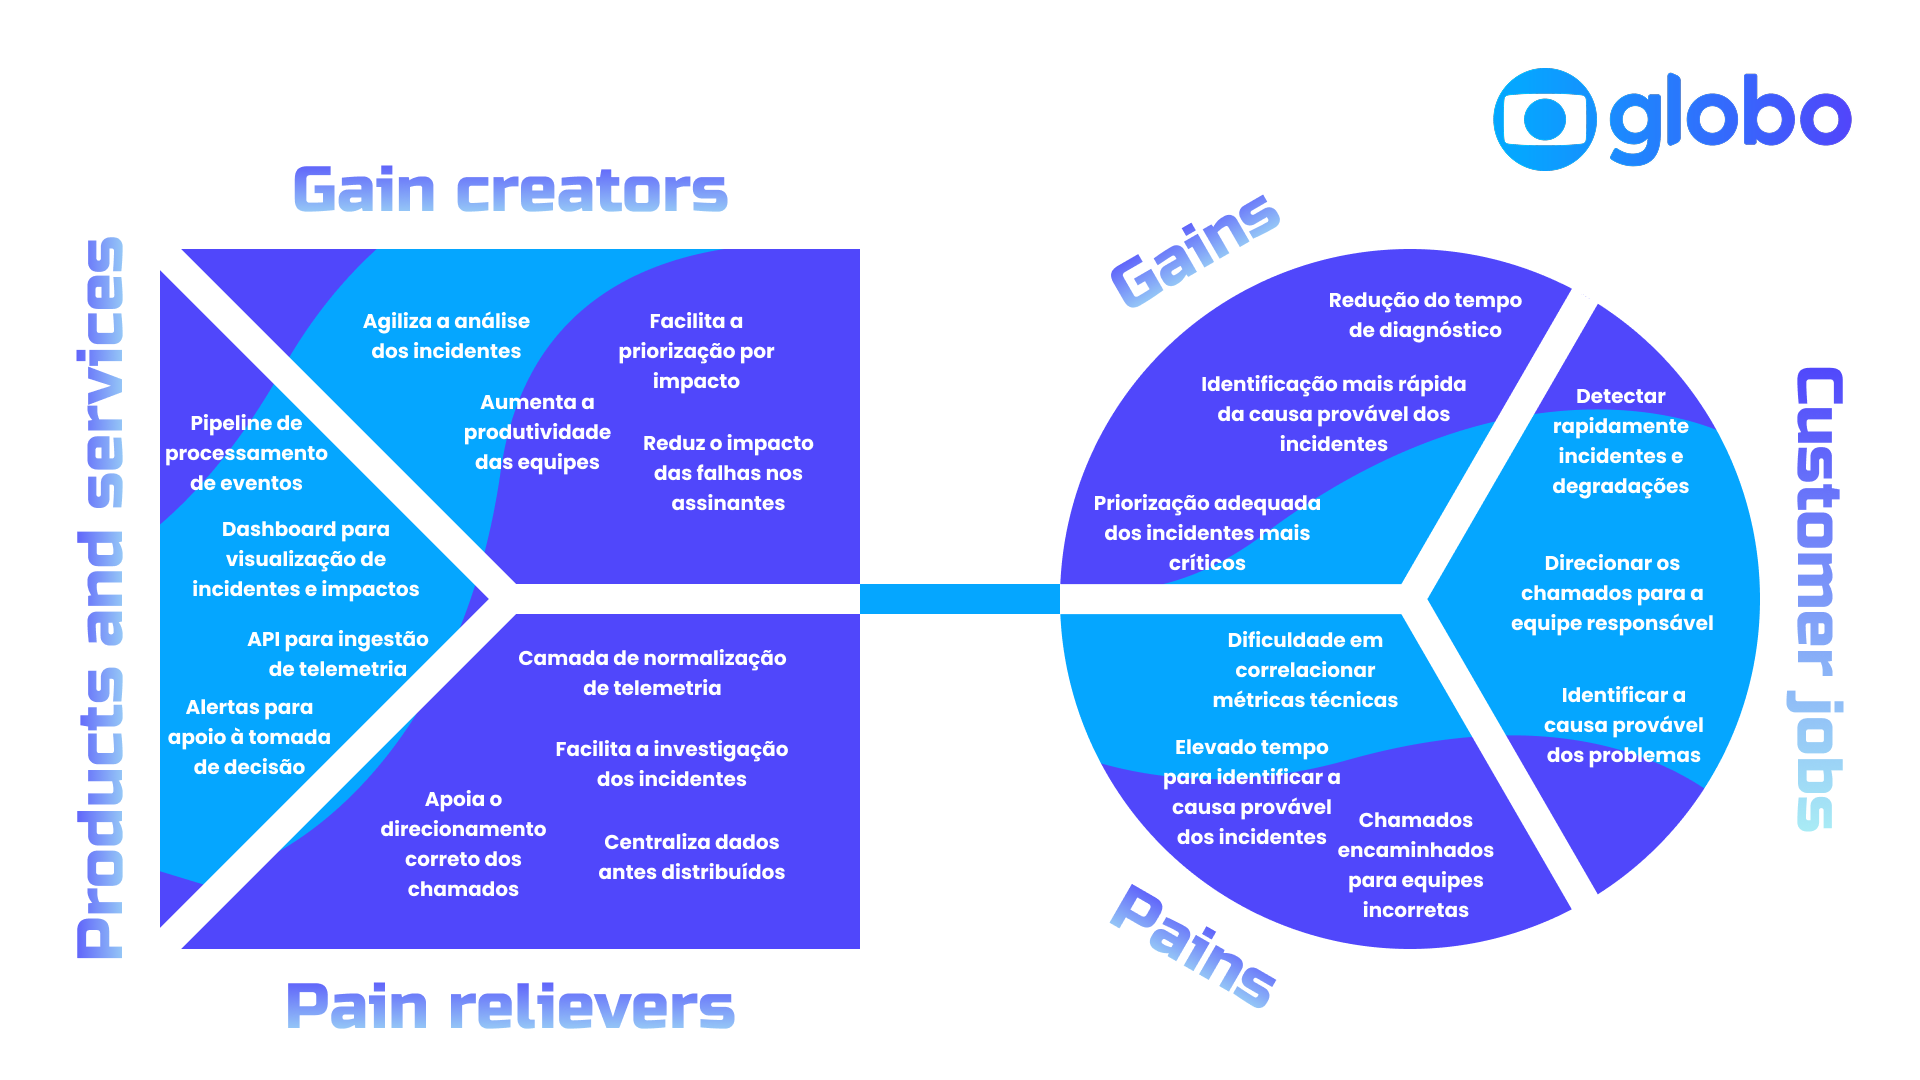
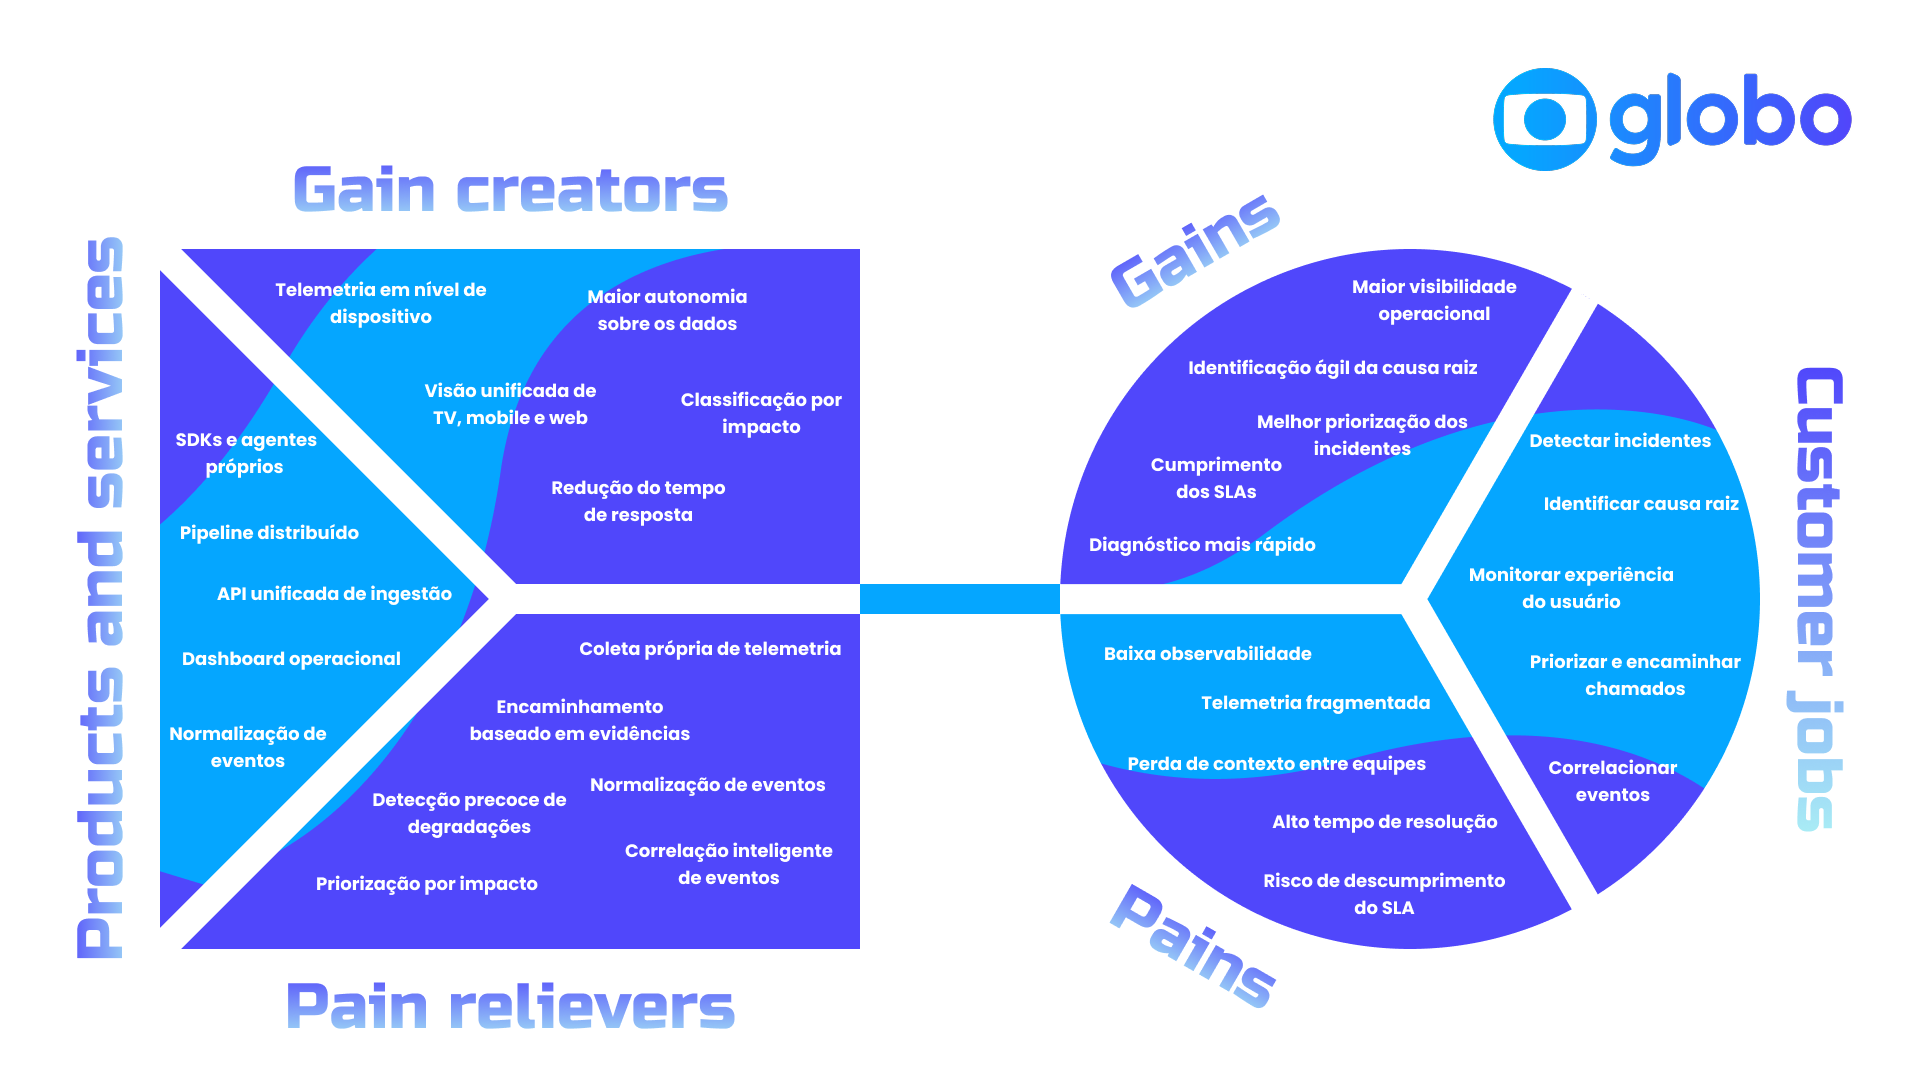
docs: atualiza conteúdo e estrutura do Canvas da Proposta de Valor

diff --git a/artefatos/entendimento_negocio.md b/artefatos/entendimento_negocio.md
@@ -12,7 +12,7 @@
 
 ### 3.1. Value Proposition Canvas
 
-&nbsp; O Canvas da Proposta de Valor é uma ferramenta estratégica que permite compreender de forma visual e objetiva a relação entre o que uma organização oferece e as necessidades de seu público-alvo. Ele é dividido em dois lados complementares: o Perfil do Cliente, que identifica as tarefas, dores e ganhos esperados, e o Mapa de Valor, que apresenta como os produtos e serviços propostos aliviam essas dores e criam benefícios. Neste projeto, a ferramenta é utilizada para relacionar a solução de observabilidade aos desafios enfrentados pelo time de tecnologia da Globo durante o monitoramento e a resolução de incidentes do Globoplay.
+&nbsp; O Canvas da Proposta de Valor é uma ferramenta estratégica que permite compreender de forma visual e objetiva a relação entre o que uma organização oferece e as necessidades de seu público-alvo. Ele é dividido em dois lados complementares: o Perfil do Cliente, que identifica as tarefas, dores e ganhos esperados, e o Mapa de Valor, que apresenta como os produtos e serviços propostos aliviam essas dores e criam benefícios. Neste projeto, a ferramenta é utilizada para relacionar uma solução própria de coleta e análise de telemetria aos desafios enfrentados pelo time de tecnologia da Globo durante o monitoramento e a resolução de incidentes do Globoplay.
 
 <div align="center">
 
@@ -30,34 +30,39 @@
 
 &nbsp; Esta seção detalha os produtos e serviços que compõem a proposta de valor entregue ao cliente.
 
-- **1 -** API para ingestão de dados de telemetria.
-- **2 -** Pipeline escalável, executado na AWS, para processamento de eventos.
-- **3 -** Camada de normalização de diferentes formatos de telemetria.
-- **4 -** Armazenamento centralizado das informações processadas.
-- **5 -** Dashboard para visualização de incidentes e de seus impactos.
-- **6 -** Alertas para apoio à tomada de decisão das equipes técnicas.
+- **1 -** SDKs e agentes próprios para coleta de telemetria em dispositivos de TV, mobile e web.
+- **2 -** API para receber diretamente os eventos enviados pelos dispositivos.
+- **3 -** Pipeline escalável, executado na AWS, para processamento dos eventos coletados.
+- **4 -** Camada de normalização dos eventos coletados diretamente dos dispositivos, convertendo protocolos modernos e legados para um formato unificado.
+- **5 -** Armazenamento centralizado das informações processadas.
+- **6 -** Dashboard para visualização de incidentes, impactos e alertas operacionais.
+- **7 -** Mecanismo para identificação de incidentes e degradações a partir dos eventos coletados.
 
 ###### Criadores de Ganhos (*Gain Creators*)
 
 &nbsp; Esta seção detalha os elementos da solução que atuam como criadores de ganhos para o cliente, fortalecendo a proposta de valor.
 
-- **1 -** Acesso mais rápido a informações consolidadas sobre os incidentes.
-- **2 -** Priorização dos incidentes conforme o impacto identificado.
-- **3 -** Maior produtividade das equipes durante a investigação.
-- **4 -** Melhor suporte à tomada de decisão operacional.
-- **5 -** Maior capacidade de cumprimento dos acordos de nível de serviço (SLA).
-- **6 -** Redução do impacto das falhas percebidas pelos assinantes.
+- **1 -** A consolidação das informações no dashboard reduz o tempo de análise e diagnóstico.
+- **2 -** A integração dos dados de TV, mobile e web proporciona uma visão mais ampla da experiência dos assinantes.
+- **3 -** A classificação pelo alcance e impacto facilita a priorização dos incidentes mais críticos.
+- **4 -** A coleta própria elimina parte das limitações impostas pelas ferramentas de mercado e amplia o controle da Globo sobre a evolução da plataforma.
+- **5 -** A disponibilidade de telemetria em nível de dispositivo facilita a identificação da causa provável dos incidentes.
+- **6 -** O direcionamento mais preciso dos chamados reduz retrabalho e aumenta a produtividade.
+- **7 -** A detecção e a investigação mais rápidas apoiam o cumprimento dos acordos de nível de serviço (SLA).
+- **8 -** A redução do tempo de resposta contribui para diminuir a duração e o impacto das falhas percebidas pelos assinantes.
 
 ###### Aliviadores de Dores (*Pain Relievers*)
 
 &nbsp; Esta seção apresenta os elementos da solução que atuam como aliviadores das dores identificadas no perfil do cliente.
 
-- **1 -** Centralização de dados anteriormente distribuídos entre diferentes fontes.
-- **2 -** Padronização dos diferentes formatos de telemetria recebidos.
-- **3 -** Reunião de métricas, eventos e informações de impacto para facilitar a investigação.
-- **4 -** Ampliação da visibilidade sobre o incidente e os grupos afetados.
-- **5 -** Apoio ao direcionamento dos chamados para a equipe responsável.
-- **6 -** Processamento escalável do volume de eventos por meio da infraestrutura da AWS.
+- **1 -** A coleta própria permite monitorar dispositivos que não são plenamente suportados pelas soluções de mercado, reduzindo a dependência dessas ferramentas no escopo coberto pelo projeto.
+- **2 -** A normalização converte eventos de diferentes plataformas para um formato comum, reduzindo a fragmentação.
+- **3 -** O armazenamento e o dashboard centralizam informações anteriormente distribuídas.
+- **4 -** A análise contínua da telemetria permite identificar degradações mesmo quando não há erros explícitos registrados.
+- **5 -** A correlação entre eventos, dispositivos, plataformas e sessões reduz o tempo necessário para encontrar a causa provável do incidente.
+- **6 -** A visualização do alcance e do impacto ajuda a evitar a priorização inadequada dos incidentes.
+- **7 -** As informações consolidadas apoiam o encaminhamento do chamado para a equipe responsável.
+- **8 -** O processamento escalável permite lidar com o volume de eventos sem comprometer a análise operacional.
 
 ---
 
@@ -69,37 +74,48 @@
 
 &nbsp; Esta seção descreve as principais responsabilidades, objetivos e desafios enfrentados pelo cliente, que orientam o desenvolvimento da solução.
 
-- **1 -** Monitorar continuamente a saúde dos sistemas do Globoplay.
-- **2 -** Detectar incidentes e degradações na experiência dos assinantes.
-- **3 -** Analisar informações provenientes de diferentes fontes de observabilidade.
-- **4 -** Investigar as possíveis causas dos incidentes.
-- **5 -** Priorizar os incidentes conforme o impacto nos usuários.
-- **6 -** Direcionar os chamados para a equipe responsável.
-- **7 -** Reduzir o tempo de resolução e cumprir os SLAs estabelecidos.
+- **1 -** Monitorar continuamente a experiência do Globoplay em TV, mobile e web. 
+- **2 -** Detectar incidentes e degradações, inclusive quando não há erros explícitos. 
+- **3 -** Correlacionar eventos e métricas técnicas provenientes de diferentes dispositivos e plataformas. 
+- **4 -** Identificar evidências que apoiem a investigação da causa provável dos incidentes. 
+- **5 -** Mensurar o alcance e o impacto dos incidentes sobre os assinantes. 
+- **6 -** Priorizar incidentes conforme sua criticidade e impacto. 
+- **7 -** Encaminhar os chamados para a equipe responsável e acompanhar sua resolução. 
+- **8 -** Cumprir os SLAs e demonstrar eficiência operacional para outras áreas da Globo. 
+- **9 -** Tomar decisões com segurança, mesmo sob pressão durante incidentes críticos.
 
 ###### Ganhos Desejados (*Gains*)
 
 &nbsp; Esta seção apresenta os ganhos esperados pelo cliente com a adoção da solução.
 
-- **1 -** Redução do tempo necessário para analisar e diagnosticar incidentes.
-- **2 -** Visualização integrada das informações de observabilidade.
-- **3 -** Priorização adequada dos incidentes mais críticos.
-- **4 -** Maior eficiência operacional das equipes técnicas.
-- **5 -** Maior cumprimento dos SLAs de atendimento.
-- **6 -** Redução do impacto das falhas na experiência dos assinantes.
+- **1 -** Reduzir o tempo necessário para detectar, analisar e diagnosticar incidentes.
+- **2 -** Obter visibilidade sobre dispositivos anteriormente pouco observáveis.
+- **3 -** Identificar mais rapidamente evidências relacionadas à causa provável dos incidentes.
+- **4 -** Conhecer o alcance e o impacto de cada incidente sobre os assinantes.
+- **5 -** Priorizar adequadamente os incidentes mais críticos.
+- **6 -** Reduzir o tempo gasto na identificação da equipe responsável pelo incidente, acelerando todo o fluxo de resolução.
+- **7 -** Aumentar a autonomia e o controle da Globo sobre seus dados de telemetria.
+- **8 -** Reduzir a dependência tecnológica de soluções externas para observabilidade.
+- **9 -** Reduzir retrabalho e aumentar a produtividade das equipes técnicas.
+- **10 -** Apoiar o cumprimento dos SLAs e aumentar a confiança durante a tomada de decisão.
+- **11 -** Diminuir a duração e o impacto percebido das falhas pelos assinantes.
 
 ###### Dores (*Pains*)
 
 &nbsp; Esta seção descreve os principais desafios e obstáculos enfrentados pelo cliente.
 
-- **1 -** Dados distribuídos entre diferentes fontes, dificultando uma análise integrada.
-- **2 -** Falta de visão ponta a ponta sobre os incidentes.
-- **3 -** Tempo elevado para investigar as possíveis causas dos problemas.
-- **4 -** Chamados encaminhados para equipes incorretas.
-- **5 -** Baixa visibilidade sobre falhas que afetam dispositivos, versões ou regiões específicas.
-- **6 -** Dificuldade para perceber degradações que não geram erros explícitos nos painéis tradicionais.
+- **1 -** Dependência de ferramentas de mercado para coletar e disponibilizar dados de observabilidade.
+- **2 -** Dados de telemetria fragmentados e apresentados em formatos diferentes entre TV, mobile e web.
+- **3 -** Perda de contexto durante o encaminhamento do incidente entre diferentes equipes e filas.
+- **4 -** Degradações de desempenho nem sempre geram erros explícitos, dificultando sua detecção pelas ferramentas tradicionais.
+- **5 -** Dificuldade para correlacionar informações e encontrar evidências sobre a causa provável dos incidentes.
+- **6 -** Priorização inadequada quando o impacto real do incidente não está claro.
+- **7 -** O tempo de resolução é elevado porque parte significativa do esforço é gasta identificando qual equipe é responsável pelo problema.
+- **8 -** Encaminhamento de chamados para equipes incorretas, causando retrabalho e atraso na resolução.
+- **9 -** Pressão e insegurança na tomada de decisão durante incidentes críticos.
+- **10 -** Prolongamento das falhas, com risco de descumprimento dos SLAs e prejuízo à experiência dos assinantes.
 
-&nbsp; Dessa forma, o modelo demonstra que a solução proposta busca aliviar as principais dificuldades enfrentadas pelo time de tecnologia da Globo, especialmente a fragmentação dos dados, a falta de visão ponta a ponta e o tempo elevado de investigação. Ao centralizar e padronizar a telemetria, apresentar informações contextualizadas em um dashboard e apoiar o direcionamento dos incidentes, a solução contribui para aumentar a eficiência das equipes, favorecer o cumprimento dos SLAs e reduzir o impacto das falhas percebidas pelos assinantes do Globoplay.
+&nbsp; Dessa forma, o modelo demonstra que a solução proposta é baseada em coleta própria. Por meio de SDKs e agentes próprios, os eventos são coletados diretamente nos dispositivos de TV, mobile e web e enviados à infraestrutura da plataforma na AWS, onde são processados, normalizados, armazenados e apresentados em um dashboard. A solução foi concebida para substituir, dentro do escopo do MVP e conforme o rollout dos SDKs e agentes próprios, parte das funcionalidades atualmente desempenhadas por ferramentas de observabilidade de mercado. O valor central da proposta permanece a ampliação da visibilidade necessária para investigar incidentes, reduzir o tempo perdido entre filas e equipes, apoiar o cumprimento dos SLAs e diminuir o impacto das falhas percebidas pelos assinantes do Globoplay.
 
 
 
